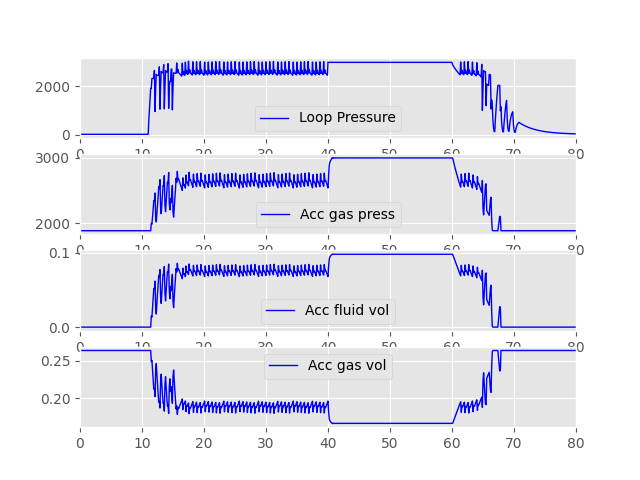
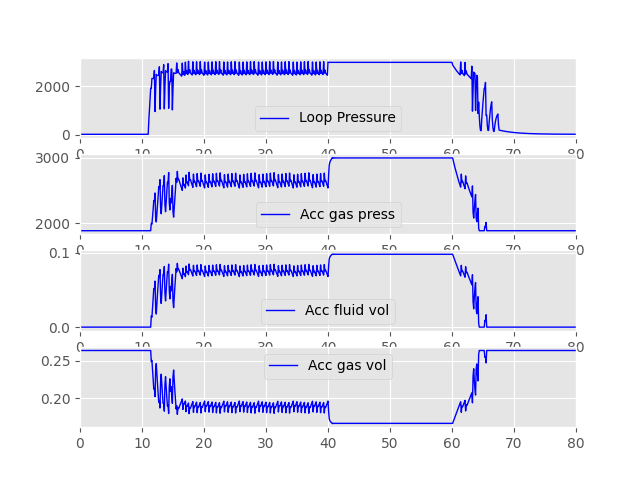
Update loop A320hydraulic
First iteration, not working as it is

diff --git a/systems/src/a320/hydraulic.rs b/systems/src/a320/hydraulic.rs
@@ -1,4 +1,4 @@
-use std::time::Duration;
+use std::time::{Duration, Instant};
 use uom::si::{
     area::square_meter, f64::*, force::newton, length::foot, length::meter,
     mass_density::kilogram_per_cubic_meter, pressure::atmosphere, pressure::pascal, pressure::psi,
@@ -6,7 +6,7 @@ use uom::si::{
     volume::cubic_inch, volume::gallon, volume::liter, volume_rate::cubic_meter_per_second,
     volume_rate::gallon_per_second,
 };
-use crate::{hydraulic::{Actuator, ElectricPump, EngineDrivenPump, HydFluid, HydLoop, LoopColor, Pump, RatPump}, overhead::{AutoOffPushButton, NormalAltnPushButton, OnOffPushButton}, shared::{DelayedTrueLogicGate, Engine}, simulator::UpdateContext};
+use crate::{hydraulic::{Actuator, ElectricPump, EngineDrivenPump, HydFluid, HydLoop, LoopColor, Pump, RatPump, Ptu}, overhead::{AutoOffPushButton, NormalAltnPushButton, OnOffPushButton}, shared::{DelayedTrueLogicGate, Engine}, simulator::UpdateContext};
 
 pub struct A320Hydraulic {
     blue_loop: HydLoop,
@@ -16,6 +16,7 @@ pub struct A320Hydraulic {
     engine_driven_pump_2: EngineDrivenPump,
     blue_electric_pump: ElectricPump,
     yellow_electric_pump: ElectricPump,
+    ptu: Ptu,
     // Until hydraulic is implemented, we'll fake it with this boolean.
     // blue_pressurised: bool,
 }
@@ -34,7 +35,7 @@ impl A320Hydraulic {
                 Volume::new::<gallon>(1.6),
                 Volume::new::<gallon>(1.6),
                 Volume::new::<gallon>(1.5),
-                HydFluid::new(Pressure::new::<pascal>(1450000000.0))
+                HydFluid::new(Pressure::new::<pascal>(1450000000.0)),
             ),
             green_loop: HydLoop::new(
                 LoopColor::Green,
@@ -60,6 +61,7 @@ impl A320Hydraulic {
             engine_driven_pump_2: EngineDrivenPump::new(),
             blue_electric_pump: ElectricPump::new(),
             yellow_electric_pump: ElectricPump::new(),
+            ptu : Ptu::new(),
         }
     }
 
@@ -75,8 +77,59 @@ impl A320Hydraulic {
         self.yellow_loop.get_pressure().get::<psi>() >= A320Hydraulic::MIN_PRESS_PRESSURISED
     }
 
-    pub fn update(&mut self, _: &UpdateContext) {
+    pub fn update(&mut self, ct: &UpdateContext) {
+
+        let timeStart = Instant::now();
+        let mut now =  Instant::now();
+
+        let min_hyd_loop_timestep = Duration::from_millis(100); //Hyd Sim rate = 10 Hz
         
+        let mut time_lag_accumulator = 0.0;
+
+        //time to catch up in our simulation
+        let mut timeElapsed = now.elapsed();
+
+        timeElapsed=timeElapsed+ Duration::from_secs_f64(time_lag_accumulator);
+
+        
+        //Dummy engine TODO to remove
+        let mut engine1 = Engine::new();//engine(Ratio::new::<percent>(0.5));
+        engine1.n2=Ratio::new::<percent>(0.5);
+        let mut engine2 = Engine::new();
+        engine2.n2=Ratio::new::<percent>(0.5);
+
+        let numberOfSteps_f64 = timeElapsed.as_secs_f64()/min_hyd_loop_timestep.as_secs_f64();
+
+        if numberOfSteps_f64 < 1.0 {
+            //Can't do a full time step
+            //we can either do an update with smaller step or wait next iteration
+            //Other option is to update only actuator position based on known hydraulic 
+            //state to avoid lag of control surfaces if sim runs really fast
+            time_lag_accumulator=numberOfSteps_f64 * min_hyd_loop_timestep.as_secs_f64(); //Time lag is float part of num of steps * fixed time step to get a result in time
+        } else {
+            //TRUE UPDATE LOOP HERE
+            let num_of_update_loops = numberOfSteps_f64.floor() as u32;
+
+            time_lag_accumulator= (numberOfSteps_f64 - (num_of_update_loops as f64))* min_hyd_loop_timestep.as_secs_f64(); //Keep track of time left after all fixed loop are done
+           
+
+            for curLoop in  0..num_of_update_loops {
+                //UPDATE HYDRAULICS FIXED TIME STEP
+                     
+                self.ptu.update(&self.green_loop, &self.yellow_loop);
+                self.engine_driven_pump_1.update(&min_hyd_loop_timestep,&ct, &self.green_loop, &engine1);
+                self.engine_driven_pump_2.update(&min_hyd_loop_timestep,&ct, &self.yellow_loop, &engine2);
+                self.yellow_electric_pump.update(&min_hyd_loop_timestep,&ct, &self.yellow_loop);
+                self.blue_electric_pump.update(&min_hyd_loop_timestep,&ct, &self.blue_loop);
+          
+
+                self.green_loop.update(&min_hyd_loop_timestep,&ct, Vec::new(), vec![&self.engine_driven_pump_1], Vec::new(), vec![&self.ptu]);
+                self.yellow_loop.update(&min_hyd_loop_timestep,&ct, vec![&self.yellow_electric_pump], vec![&self.engine_driven_pump_2], Vec::new(), vec![&self.ptu]);
+                self.blue_loop.update(&min_hyd_loop_timestep,&ct, vec![&self.blue_electric_pump], Vec::new(), Vec::new(), Vec::new());
+            }
+          
+        }     
+        //now=Instant::now();       
     }
 }
 
